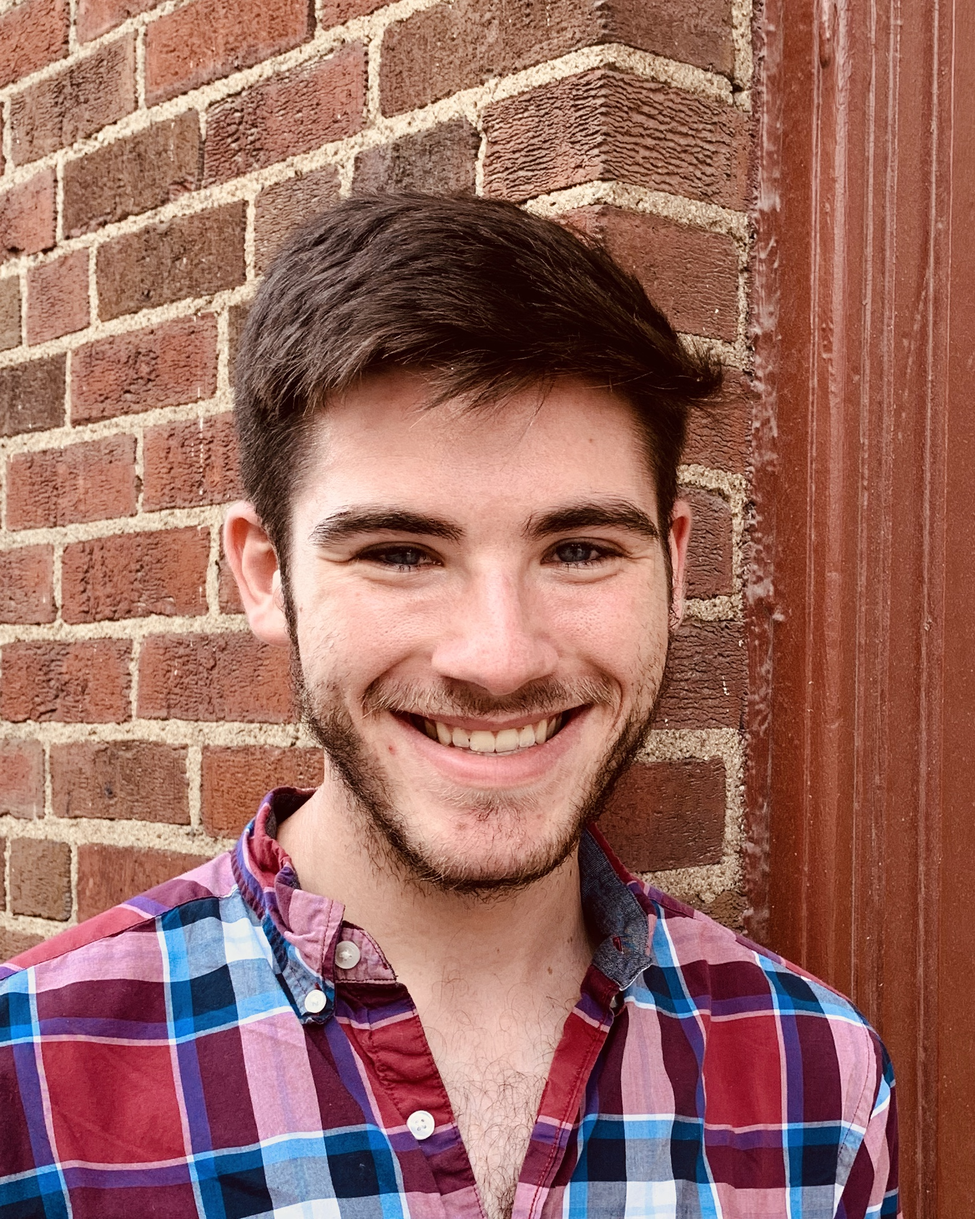
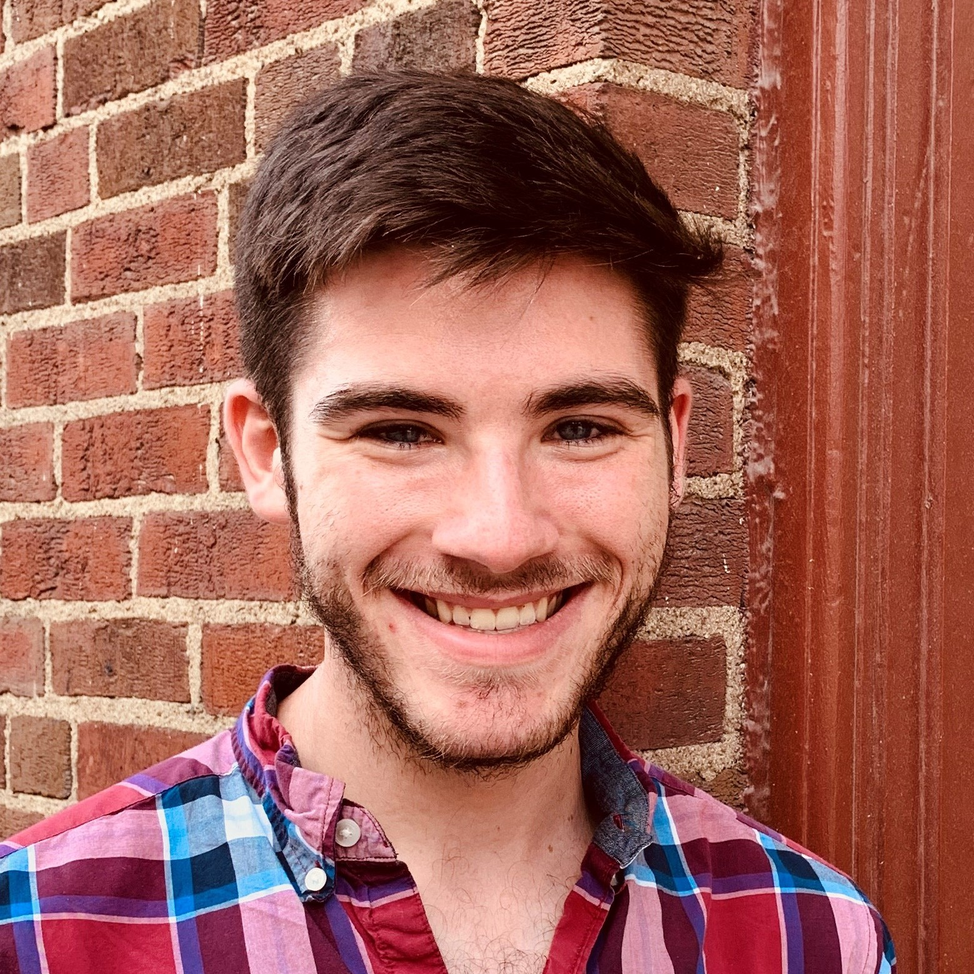
Layout Changes and Updated Descriptions

diff --git a/src/components/myCard.js b/src/components/myCard.js
@@ -1,9 +1,14 @@
 import React from 'react';
-import { makeStyles, useTheme } from '@material-ui/core/styles';
+import { makeStyles } from '@material-ui/core/styles';
 import MyPicture from '../pictures/IMG_1440.jpg'
 
 // Material UI Stuff
-import { Box, Card, CardMedia, Divider} from '@material-ui/core';
+import { Box, Button, Card, CardContent, CardMedia, Divider, IconButton, Typography } from '@material-ui/core';
+import FacebookIcon from '@material-ui/icons/Facebook';
+import GitHubIcon from '@material-ui/icons/GitHub';
+import InstagramIcon from '@material-ui/icons/Instagram';
+import LinkedInIcon from '@material-ui/icons/LinkedIn';
+import MailOutlineIcon from '@material-ui/icons/MailOutline'
 
 const useStyles = makeStyles((theme) => ({
     root: {
@@ -25,21 +30,44 @@ const useStyles = makeStyles((theme) => ({
         letterSpacing: '1px',
         textAlign: 'center',
     },
+    icon: {
+        minWidth: 8,
+    },
   }));
 
 export default function MyCard() {
     const classes = useStyles();
-    const theme = useTheme();
 
     return (
         <Card className={classes.root}>
             <CardMedia component="img" alt="Andrew Smith" className={classes.picture} image={MyPicture} title="Andrew Smith" />
-            <Divider />
-            <Box display={'flex'}>
-                <Box p={1} flex={'auto'}>
-                    <p className={classes.email}>smit3407@purdue.edu</p>
-                </Box>
-            </Box>
+            <CardContent>
+                <Typography gutterBottom variant="h5">
+                    Andrew Smith
+                </Typography>
+                <Typography variant="body2" color="textSecondary" component="p">
+                    smit3407@purdue.edu
+                </Typography>
+                <br />
+                <Divider variant="fullwidth" horizontal />
+                <br />
+                <Typography variant="body1" color="textPrimary" component="p" paragraph>
+                    Hello Internet
+                </Typography>
+                <Typography variant="body2" color="textSecondary" component="p" letterSpacing={2}>
+                    My name is Andrew. I currently go to school at Purdue University as a 
+                    Computer Science major. I am pursuing an internship while working as a Resident
+                    Assistant on campus.
+                </Typography>
+                <br />
+                <Divider variant="fullwidth" horizontal />
+                <br />
+                <Button disableRipple style={{ maxWidth: '20%', minWidth: '20%' }} href="https://github.com/smit3407"><GitHubIcon /></Button>
+                <Button disableRipple style={{ maxWidth: '20%', minWidth: '20%' }} href="https://www.facebook.com/profile.php?id=100003999054326"><FacebookIcon /></Button>
+                <Button disableRipple style={{ maxWidth: '20%', minWidth: '20%' }} href="https://www.instagram.com/andrewnook4/"><InstagramIcon /></Button>
+                <Button disableRipple style={{ maxWidth: '20%', minWidth: '20%' }} href="https://www.linkedin.com/in/andrew-smith-21892b1a1/"><LinkedInIcon /></Button>
+                <Button disableRipple style={{ maxWidth: '20%', minWidth: '20%' }} href="mailto:smit3407@purdue.edu"><MailOutlineIcon /></Button>
+            </CardContent>
         </Card>
     );
 }

diff --git a/src/App.js b/src/App.js
@@ -19,40 +19,39 @@ import me from './pictures/IMG_1440.jpg'
 import MyCard from './components/myCard';
 import Tabs from './components/tabs';
 import { Card, CardMedia, Grid, Paper } from '@material-ui/core';
+// Theme Stuff
+import { ThemeProvider as MuiThemeProvider } from '@material-ui/core/styles';
+import createMuiTheme from "@material-ui/core/styles/createMuiTheme";
+import themeFile from "./components/theme";
+import "./App.css";
+
+// Material UI Appbar
+import Appbar from './components/appbar';
+
+const theme = createMuiTheme(themeFile);
 
 export default function App() {
   return (
-    <Router>
-      <div>
-        <Switch>
-          <Route path="/about" component={About}>
-            <About />
-          </Route>
-          <Route path="/topics" component={Topics}>
-            <Topics />
-          </Route>
-          <Route path="/home" component={Home}>
-            <Home />
-          </Route>
-          <Route path="/">
+    <MuiThemeProvider theme={theme}>
+      <Router>
+          <Switch>
+            <Route path="/">
+              <br></br>
+              <br></br>
+              <Grid container justify="center" spacing={4}>
+                <Grid item>
+                  <MyCard />
+                </Grid>
 
-          </Route>
-        </Switch>
-
-        <br></br>
-        <br></br>
-        <Grid container justify="center" spacing={4}>
-          <Grid item>
-            <MyCard />
-          </Grid>
-
-          <Grid item>
-            <Paper>
-              <Tabs/>
-            </Paper>
-          </Grid>
-        </Grid>
-      </div>
-    </Router>
+                <Grid item>
+                  <Paper>
+                    <Tabs/>
+                  </Paper>
+                </Grid>
+              </Grid>
+            </Route>
+          </Switch>
+        </Router>
+      </MuiThemeProvider>
   );
 }

diff --git a/src/components/tabs.js b/src/components/tabs.js
@@ -9,6 +9,7 @@ import Tabs from '@material-ui/core/Tabs';
 import Tab from '@material-ui/core/Tab';
 import Typography from '@material-ui/core/Typography';
 import Box from '@material-ui/core/Box';
+import { appleTabsStylesHook } from '@mui-treasury/styles/tabs';
 
 // Pages Import
 import Home from '../pages/home';
@@ -52,6 +53,7 @@ const useStyles = makeStyles((theme) => ({
   root: {
     flexGrow: 1,
     backgroundColor: theme.palette.background.paper,
+    borderRadius: 12,
   },
 }));
 
@@ -67,11 +69,11 @@ export default function HomeTabs() {
   return (
     <div className={classes.root}>
       <AppBar position="static">
-        <Tabs value={value} onChange={handleChange} aria-label="simple tabs example" centered>
-          <Tab label="About" {...a11yProps(0)} />
-          <Tab label="Projects" {...a11yProps(1)} />
-          <Tab label="Resume" {...a11yProps(2)} />
-          <Tab label="Contact" {...a11yProps(3)} />        
+        <Tabs classes={appleTabsStylesHook.useTabs()} value={value} onChange={handleChange} aria-label="simple tabs example" centered>
+          <Tab classes={appleTabsStylesHook.useTabItem()} disableRipple label="About" {...a11yProps(0)} />
+          <Tab classes={appleTabsStylesHook.useTabItem()} disableRipple label="Projects" {...a11yProps(1)} />
+          <Tab classes={appleTabsStylesHook.useTabItem()} disableRipple label="Resume" {...a11yProps(2)} />
+          <Tab classes={appleTabsStylesHook.useTabItem()} disableRipple label="Contact" {...a11yProps(3)} />        
         </Tabs>
       </AppBar>
       <TabPanel value={value} index={0}>

diff --git a/src/components/theme.js b/src/components/theme.js
@@ -1,0 +1,16 @@
+export default {
+    palette: {
+        primary: {
+            light: '#ffffff',
+            main: '#eeeeee',
+            dark: '#bcbcbc',
+            contrastText: '#000',
+        },
+        secondary: {
+            light: '#484848',
+            main: '#212121',
+            dark: '#000000',
+            contrastText: '#000',
+        },
+    }
+}

diff --git a/src/App.css b/src/App.css
@@ -36,3 +36,26 @@
     transform: rotate(360deg);
   }
 }
+
+.tab { text-indent:40px }
+
+h1 {
+  text-align: center;
+}
+
+h2 {
+  text-align: center;
+}
+
+h4 {
+  text-align: center;
+}
+
+body {
+  background-color: #f4f4f4;
+}
+
+@keyframes spin{
+	from{transform:rotate(0deg)}
+	to{transform:rotate(360deg)}	
+}

diff --git a/src/pages/topics.js b/src/pages/topics.js
@@ -1,6 +1,5 @@
 import React from "react";
 import {
-    BrowserRouter as Router,
     Switch,
     Route,
     Link,
